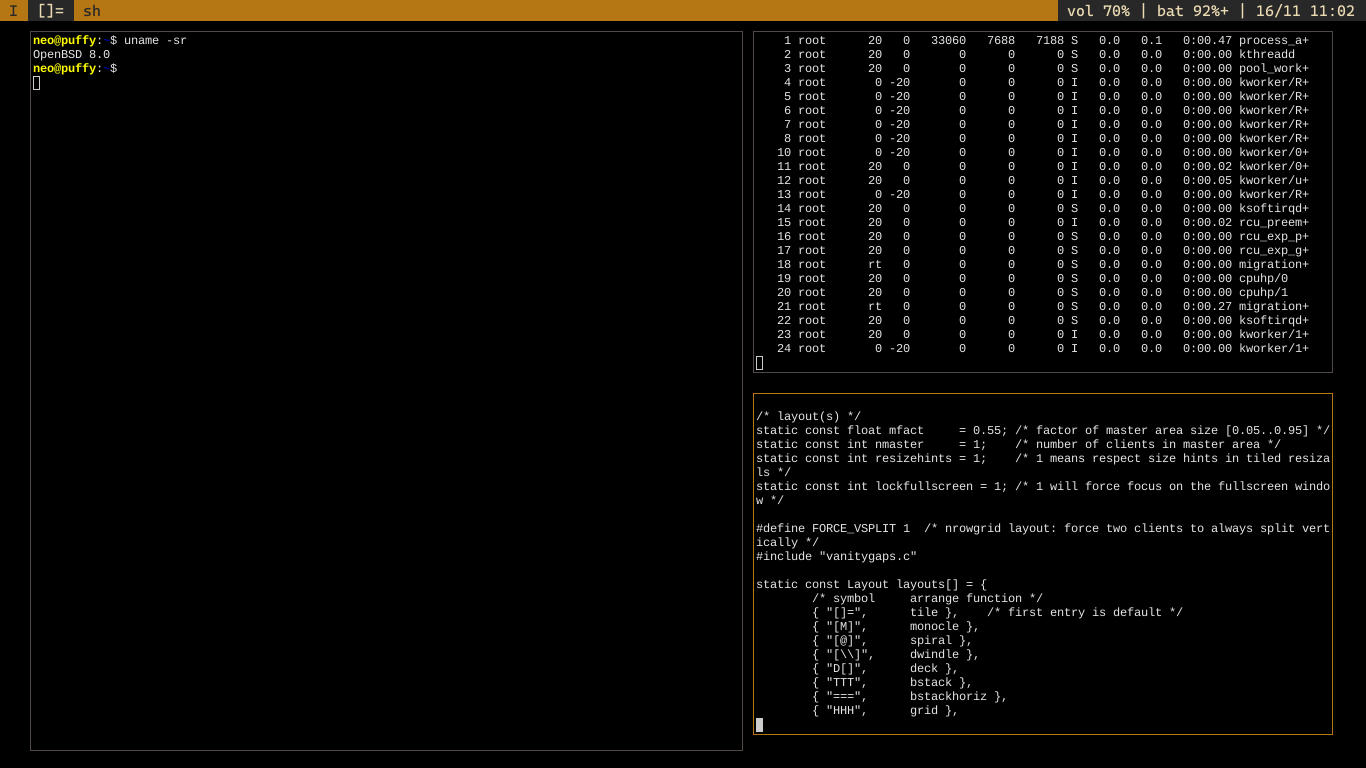
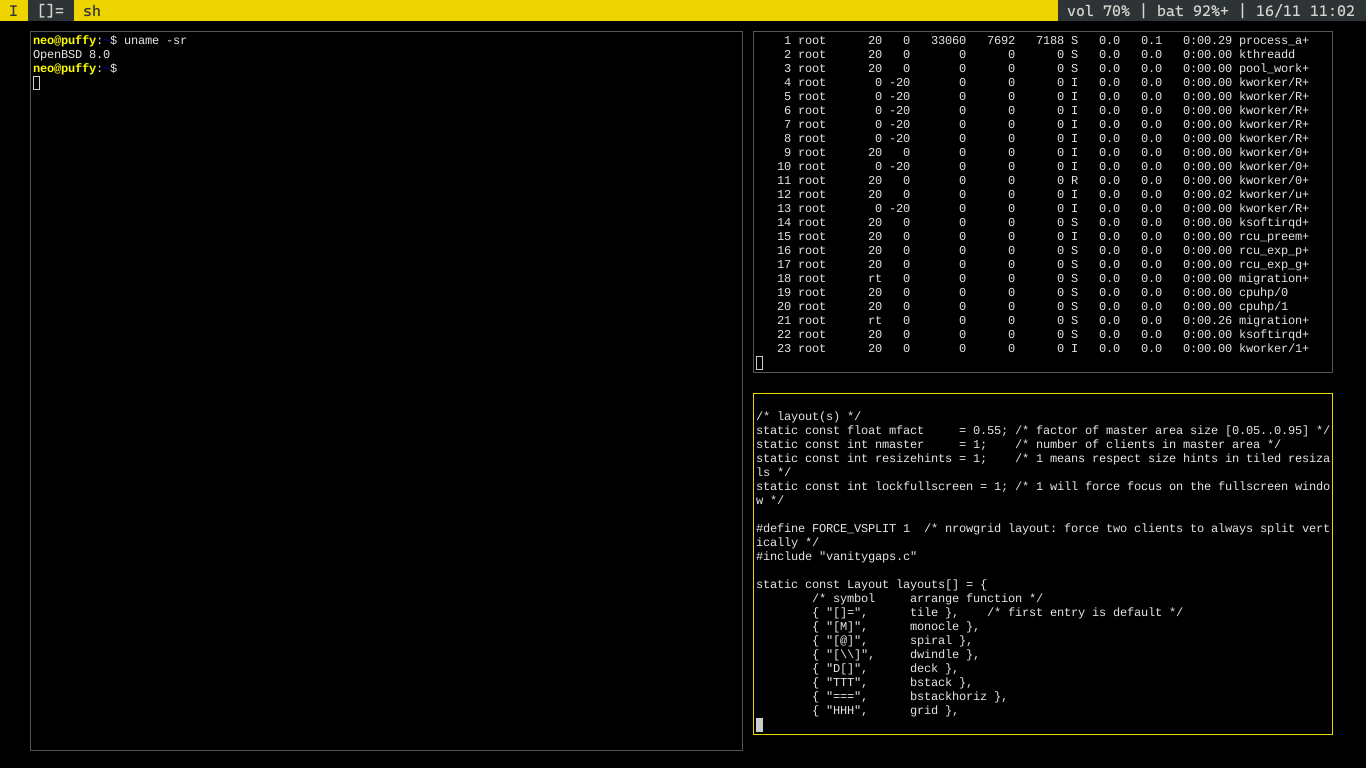
Switch dwm to the Tango yellow theme
Butter #edd400 on Aluminium #2e3436 for the bar, focus border and
dmenu, matching the cwm rice. The root background follows. CORES.md
now documents the Tango palette; st and .Xresources stay Gruvbox.

Changed region(s): [[0.0, 0.0, 0.7994, 0.0312], [0.8917, 0.25, 0.9531, 0.4375], [0.6149, 0.3438, 0.6457, 0.375]]

diff --git a/dwm/config.h b/dwm/config.h
@@ -13,11 +13,11 @@ static const int showbar            = 1;        /* 0 means no bar */
 static const int topbar             = 1;        /* 0 means bottom bar */
 static const char *fonts[]          = { "Cascadia Code:size=11" };
 static const char dmenufont[]       = "Cascadia Code:size=11";
-static const char col_gray1[]       = "#282828";
-static const char col_gray2[]       = "#504945";
-static const char col_gray3[]       = "#ebdbb2";
-static const char col_gray4[]       = "#282828";
-static const char col_cyan[]        = "#b57614";
+static const char col_gray1[]       = "#2e3436";
+static const char col_gray2[]       = "#555753";
+static const char col_gray3[]       = "#d3d7cf";
+static const char col_gray4[]       = "#2e3436";
+static const char col_cyan[]        = "#edd400";
 static const char *colors[][3]      = {
 	/*               fg         bg         border   */
 	[SchemeNorm] = { col_gray3, col_gray1, col_gray2 },

diff --git a/CORES.md b/CORES.md
@@ -1,36 +1,26 @@
-# Cores: Gruvbox escuro padrão
+# Cores: amarelo Tango
 
-Guia para mexer nas cores sozinho. Tudo usa a paleta **Gruvbox dark** original (contraste médio).
+O dwm usa a paleta **Tango**: amarelo Butter sobre Aluminium escuro, o mesmo visual do rice com cwm.
 
-## A paleta
+## A paleta Tango (o que o dwm usa)
 
-| Nome | Normal | Clara | Uso típico |
-|---|---|---|---|
-| Fundo (bg) | `#282828` | — | Fundo de tudo |
-| Fundo 1 (bg1) | `#3c3836` | — | Barras, painéis |
-| Fundo 2 (bg2) | `#504945` | — | Bordas inativas, seleção |
-| Fundo duro (bg0_h) | `#1d2021` | — | Fundo mais escuro, se quiser contraste alto |
-| Texto (fg) | `#ebdbb2` | — | Texto principal |
-| Cinza | `#a89984` | `#928374` | Comentários, texto apagado |
-| Vermelho | `#cc241d` | `#fb4934` | Erros, palavras-chave |
-| Verde | `#98971a` | `#b8bb26` | Strings, sucesso |
-| Amarelo | `#d79921` | `#fabd2f` | Amarelo do terminal |
-| Amarelo apagado (faded) | `#b57614` | — | **Destaque da barra (janela ativa)** |
-| Azul | `#458588` | `#83a598` | Links, tipos |
-| Roxo | `#b16286` | `#d3869b` | Constantes |
-| Ciano (aqua) | `#689d6a` | `#8ec07c` | Funções |
-| Laranja | `#d65d0e` | `#fe8019` | Avisos |
-
-**Normal** é a base. **Clara** é a versão "bright", para dar mais brilho. **Apagada** (faded) é a versão mais escura, que o Gruvbox usa no tema claro; aqui ela serve de destaque discreto.
+| Nome Tango | Hex | Uso no dwm |
+|---|---|---|
+| Butter 2 | `#edd400` | **Destaque**: tag ativa, título e borda da janela com foco |
+| Butter 1 | `#fce94f` | Destaque mais claro (alternativa) |
+| Butter 3 | `#c4a000` | Destaque mais escuro (alternativa) |
+| Aluminium 6 | `#2e3436` | Fundo da barra, texto sobre o destaque, fundo da tela |
+| Aluminium 5 | `#555753` | Borda das janelas sem foco |
+| Aluminium 2 | `#d3d7cf` | Texto da barra |
 
 ## dwm: `dwm/config.h`
 
 ```c
-static const char col_gray1[] = "#282828"; /* fundo da barra          */
-static const char col_gray2[] = "#504945"; /* borda da janela inativa */
-static const char col_gray3[] = "#ebdbb2"; /* texto da barra          */
-static const char col_gray4[] = "#282828"; /* texto sobre o destaque  */
-static const char col_cyan[]  = "#b57614"; /* destaque: tag ativa, título e borda ativa (amarelo apagado) */
+static const char col_gray1[] = "#2e3436"; /* fundo da barra          */
+static const char col_gray2[] = "#555753"; /* borda da janela inativa */
+static const char col_gray3[] = "#d3d7cf"; /* texto da barra          */
+static const char col_gray4[] = "#2e3436"; /* texto sobre o destaque  */
+static const char col_cyan[]  = "#edd400"; /* destaque: amarelo Tango */
 ```
 
 Os nomes (`col_gray1`, `col_cyan`) vêm do dwm original. O nome não importa, o valor sim.
@@ -43,100 +33,45 @@ Os nomes (`col_gray1`, `col_cyan`) vêm do dwm original. O nome não importa, o 
 | `col_gray4` | Texto da tag ativa e do título |
 | `col_cyan` | Fundo da tag ativa, do título e borda da janela com foco |
 
-O `dmenu` usa as mesmas variáveis (`dmenucmd` no `config.h`).
+O **dmenu** (pacote) recebe essas mesmas cores pelo `dmenucmd` do `config.h`, então abre em amarelo Tango pelo `Alt+p`.
 
-**Depois de mudar:**
+Depois de mudar:
 
 ```sh
-cd dwm && make && doas make install
+cd ~/dwm-config/dwm && make && doas make install
 ```
 
-Saia do dwm (`Alt+Shift+q`) e rode `startx` de novo. O dwm não relê cores sem recompilar.
+Saia do dwm (`Alt+Shift+q`) e rode `startx` de novo.
 
 ### Trocas rápidas de destaque
 
-| Quer o destaque em | Troque `col_cyan` por |
+| Quer o destaque em | `col_cyan` |
 |---|---|
-| Amarelo apagado (atual) | `#b57614` |
-| Amarelo normal | `#d79921` |
-| Amarelo claro | `#fabd2f` |
-| Azul | `#458588` |
-| Verde | `#98971a` |
-| Laranja | `#d65d0e` |
-| Discreto, sem cor | `#504945` (e `col_gray4` para `#ebdbb2`) |
+| Amarelo Tango (atual) | `#edd400` |
+| Amarelo claro | `#fce94f` |
+| Amarelo escuro | `#c4a000` |
+| Laranja Tango | `#f57900` |
+| Azul Tango | `#3465a4` |
+| Verde Tango | `#73d216` |
 
-## Terminal: `x11/.Xresources`
-
-As cores 0 a 7 são as normais e 8 a 15 as claras, na mesma ordem da tabela: preto, vermelho, verde, amarelo, azul, roxo, ciano, cinza/branco.
-
-```
-*.background: #282828
-*.foreground: #ebdbb2
-*.color1:     #cc241d   ! vermelho normal
-*.color9:     #fb4934   ! vermelho claro
-```
-
-**Depois de mudar:**
+## Fundo da tela: `x11/.xinitrc`
 
 ```sh
-xrdb -merge ~/.Xresources
+xsetroot -solid "#2e3436"     # aparece se não houver ~/.fehbg
+[ -f ~/.fehbg ] && sh ~/.fehbg
 ```
 
-Vale para os terminais abertos **depois** do comando.
+## Terminal: `st` e `x11/.Xresources`
 
-O `*.` no começo faz a cor valer para qualquer programa que lê o Xresources (xterm, e outros). O `st` **não lê** o Xresources: as cores dele ficam no `config.h` do próprio st.
-
-## cwm: `~/.cwmrc` (se usar o cwm)
-
-```
-color activeborder   "#b57614"   # janela com foco (mesmo destaque do dwm)
-color inactiveborder "#504945"   # janelas sem foco
-color urgencyborder  "#cc241d"   # janela pedindo atenção
-color groupborder    "#458588"
-color ungroupborder  "#3c3836"
-color menubg         "#282828"   # fundo do menu
-color menufg         "#b57614"   # item selecionado
-color font           "#ebdbb2"   # texto do menu
-color selfont        "#282828"   # texto do item selecionado
-```
-
-O cwm relê o arquivo sem reiniciar: menu do `cwm` → `restart`, ou `pkill -HUP cwm`.
-
-## tmux: `tmux/.tmux.conf`
-
-| Opção | Cor | Papel |
-|---|---|---|
-| `status-style` | fundo `#282828`, texto `#a89984` | Barra |
-| nome da sessão | `#98971a` | Verde normal |
-| relógio | `#d79921` | Amarelo normal |
-| título do painel | `#689d6a` | Ciano normal |
-| janela atual | fundo `#b57614`, texto `#282828` | Mesmo destaque do dwm |
-| bordas | `#3c3836`, ativa `#b57614` | Divisões |
-
-Aplicar: `Ctrl+b r` (recarrega a config).
-
-## Prompt: `starship/.config/starship.toml`
-
-A paleta `gruvbox_dark` define os nomes `red`, `green`, `blue`, `purple` etc. com as cores **claras** do Gruvbox, que leem melhor no fundo escuro. Os módulos usam esses nomes (`style = "blue bold"`). Para mudar uma cor do prompt, troque o hex na paleta.
-
-## vim e fish
-
-Não têm cor própria: usam as 16 cores do terminal. Como o `.Xresources` já é Gruvbox, eles saem em Gruvbox. Se um dia quiser um tema de vim, o Vim 9 traz o `retrobox`, inspirado no Gruvbox (`:colorscheme retrobox`).
-
-## Fundo da tela
-
-No `x11/.xinitrc`:
+O st e o `.Xresources` continuam em **Gruvbox** (`#282828` / `#ebdbb2`). O st deste repo lê o `.Xresources`
+(patch xresources), então trocar as cores lá muda o st também:
 
 ```sh
-xsetroot -solid "#282828"
+xrdb -merge ~/.Xresources     # vale para os terminais abertos depois
 ```
-
-Troque por `#1d2021` para um fundo mais escuro.
 
 ## Testar uma cor antes
 
 ```sh
-printf '\033[48;2;181;118;20m        \033[0m\n'   # mostra #b57614 (181,118,20 em decimal)
+printf '\033[48;2;237;212;0m        \033[0m\n'   # mostra #edd400 (237,212,0 em decimal)
 ```
-
-Para converter hex em decimal: `b5` = 181, `76` = 118, `14` = 20.

diff --git a/README.md b/README.md
@@ -1,6 +1,6 @@
 # dwm-config
 
-dwm 6.4 para OpenBSD, em Gruvbox escuro com destaque amarelo apagado (`#b57614`),
+dwm 6.4 para OpenBSD, em amarelo Tango (`#edd400` sobre `#2e3436`),
 fonte Cascadia Code e áreas de trabalho em algarismos romanos (I a IX).
 
 ![dwm-config no OpenBSD](docs/dwm.png)
@@ -111,7 +111,7 @@ O `.xinitrc` roda o `~/.fehbg` a cada sessão. Para escolher a imagem:
 feh --bg-fill ~/flores.jpg    # mostra agora e grava o ~/.fehbg
 ```
 
-Sem `~/.fehbg`, fica o fundo sólido `#282828`.
+Sem `~/.fehbg`, fica o fundo sólido `#2e3436`.
 
 ## Barra
 
